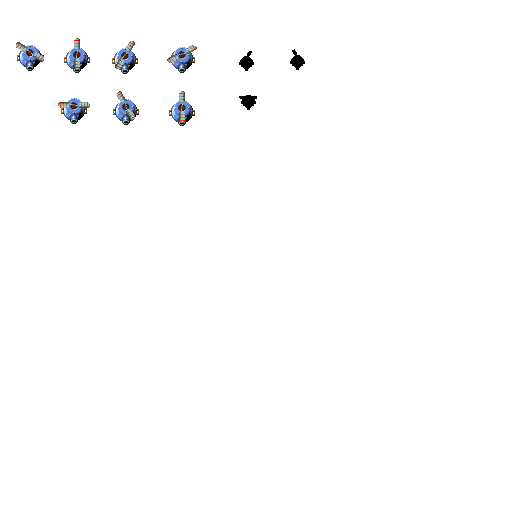
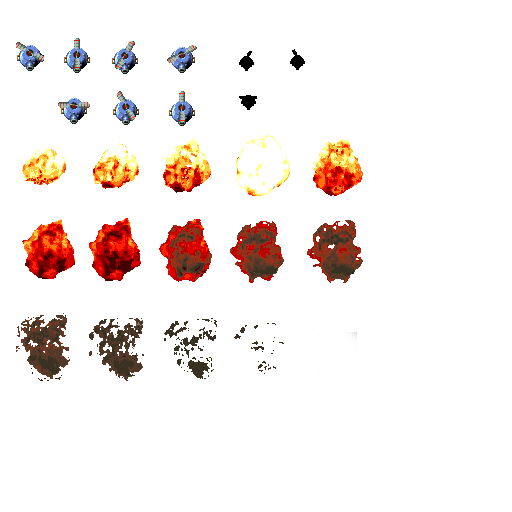
Drone explosions

diff --git a/GunBird - CodedDreams/Enemy_Drone.cpp b/GunBird - CodedDreams/Enemy_Drone.cpp
@@ -10,6 +10,7 @@ Enemy_Drone::Enemy_Drone(int x, int y, int wave, int id) : Enemy(x, y)
 	NormalSprite = App->textures->Load("assets/enemies/drone.png");
 	RedSprite = nullptr;
 	WhiteSprite = nullptr;
+	
 
 	//Wave1
 	dronewave.PushBack({ 12, 37, 38, 38 });
@@ -23,10 +24,25 @@ Enemy_Drone::Enemy_Drone(int x, int y, int wave, int id) : Enemy(x, y)
 	dronewave.loop = true;
 
 	//Death
-	dead.PushBack({ 16, 132, 32, 58 });
-	dead.PushBack({ 80, 132, 32, 58 });
-	dead.speed = 0.1f;
-	dead.loop = true;
+	//Chavales es la medium explosion sencera, si algu la vol aqui esta guapas
+
+	dead.PushBack({ 10, 131, 69, 69 });
+	dead.PushBack({ 82, 131, 69, 69 });
+	dead.PushBack({ 152, 131, 69, 69 });
+	dead.PushBack({ 228, 131, 69, 69 });
+	dead.PushBack({ 303, 131, 69, 69 });
+	dead.PushBack({ 16, 215, 68, 68 });
+	dead.PushBack({ 82, 215, 68, 68 });
+	dead.PushBack({ 152, 215, 68, 68 });
+	dead.PushBack({ 228, 215, 68, 68 });
+	dead.PushBack({ 303, 215, 68, 68 });
+	dead.PushBack({ 82, 313, 68, 68 });
+	dead.PushBack({ 152, 313, 68, 68 });
+	dead.PushBack({ 228, 313, 68, 68 });
+	dead.PushBack({ 303, 313, 68, 68 });
+
+	dead.speed = 0.5f;
+	dead.loop = false;
 
 	//Wave1 Path
 
